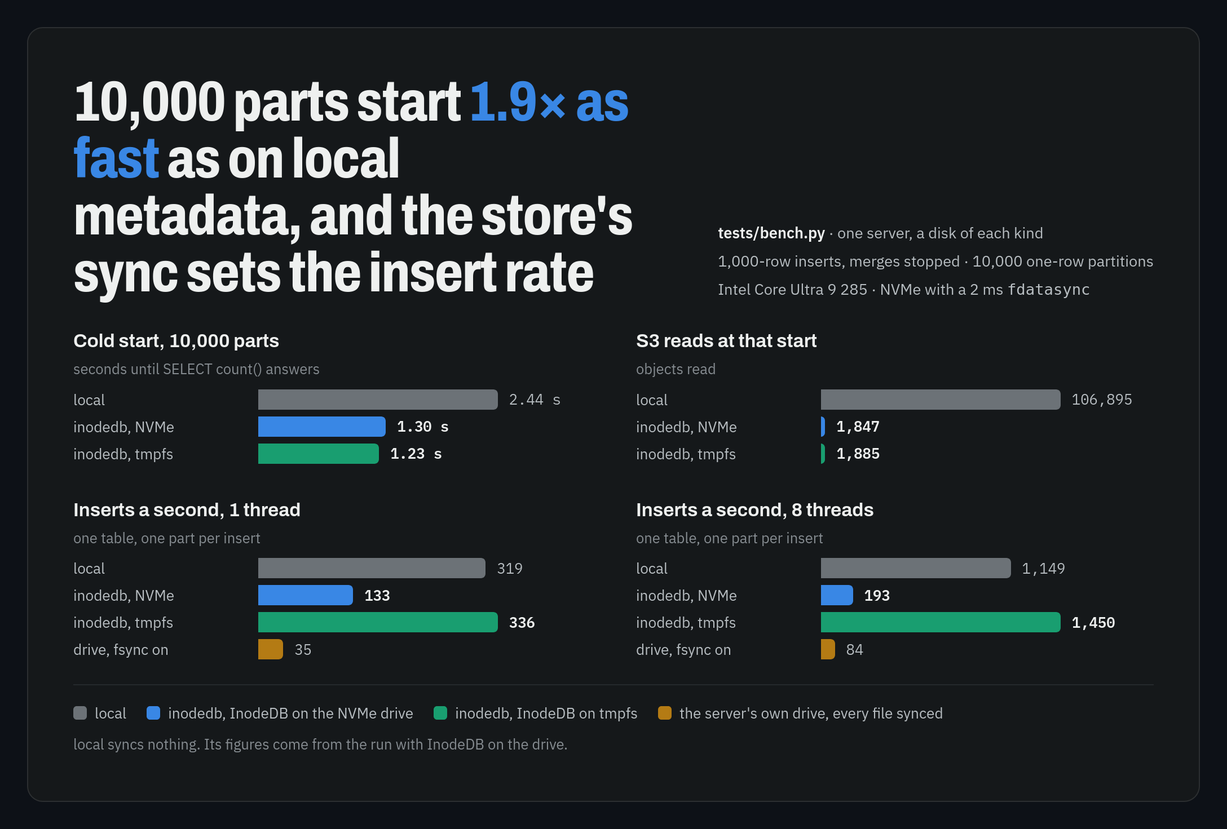
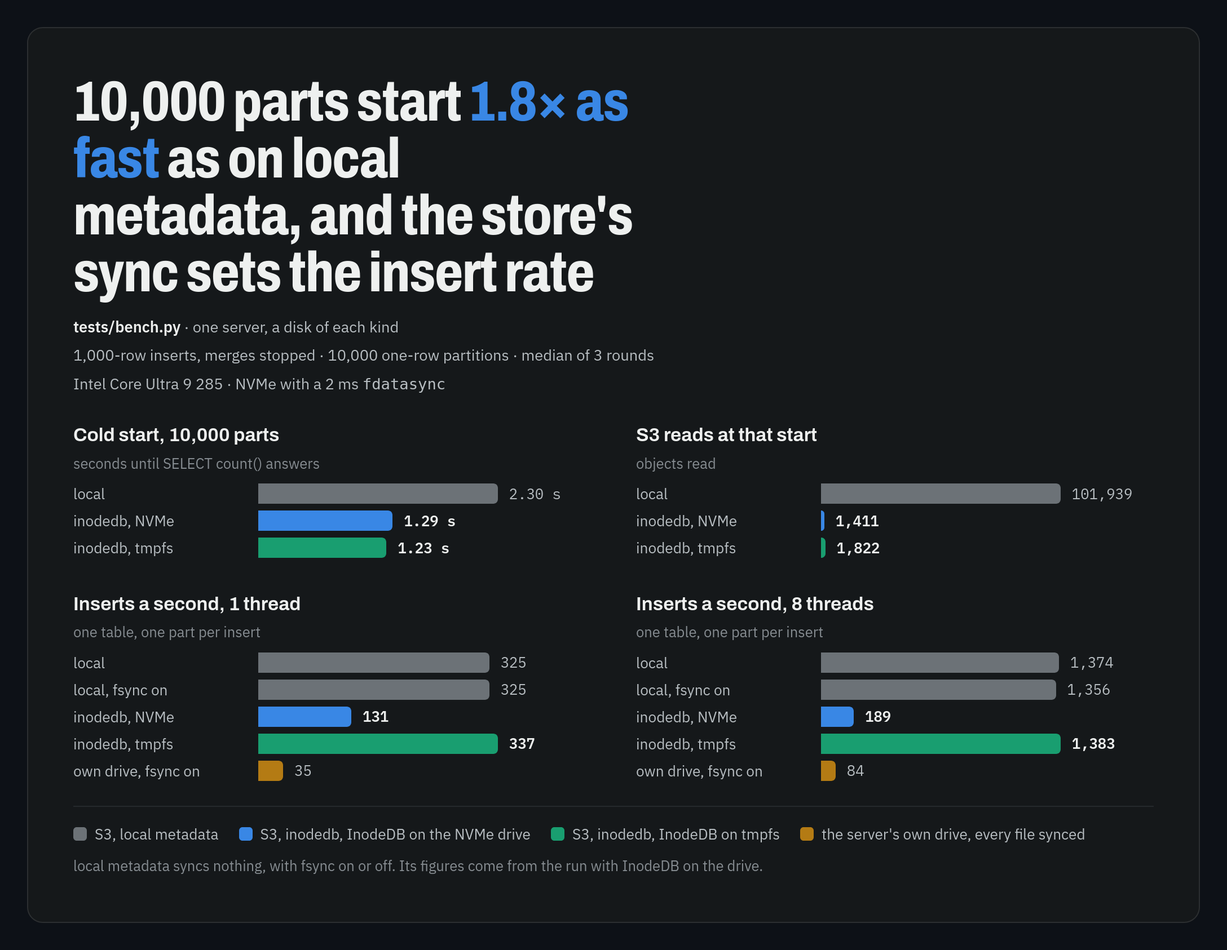
Show `local` metadata with fsync on, report benchmark medians, and count files in inline archives
The insert tables in the README, BENCHMARKS.md and the chart now give a row per configuration, `local` metadata with
`fsync_after_insert` and `fsync_part_directory` on among them. On an object-storage disk those settings sync nothing:
`local` takes 325 inserts a second with them on or off, where `inodedb` makes each insert durable at 131 with its
store on the NVMe drive and at 337 on tmpfs, and MergeTree on the server's own drive with both on takes 35.

`tests/bench.py` runs the inserts and the cold starts in 3 rounds, with the disks in a different order each round,
and reports medians. Whichever disk ran first ran slow: its cold start followed 30,000 parts' writes, so `local`'s
single sample varied from 2.44 s to 3.32 s across runs. The medians give 2.30 s against `inodedb`'s 1.29 s.

The ClickHouse fork moves to 424959278, which starts a `ReadBufferFromFileView`'s buffer at the file's first byte.
A `Packed` part whose `data.packed` is inline read its files from an in-memory buffer holding the whole archive, and
`CHECK TABLE` found each file as long as its end offset. `05394_vertical_merge_packed_part` failed this way in the
parity run that drew `ZSTD(3)` as its default codec.

Claude-Session: https://claude.ai/code/session_01TAw1MNTy3pftkJjeVmuJNn

diff --git a/docs/images/charts.html b/docs/images/charts.html
@@ -129,22 +129,22 @@ html.capture[data-theme="dark"] { --bg: #0d1117; }
 
   <div class="card hero" id="metadata">
     <div class="hero-head">
-      <h1>10,000 parts start <em>1.9× as fast</em> as on local metadata, and the store's sync sets the insert rate</h1>
+      <h1>10,000 parts start <em>1.8× as fast</em> as on local metadata, and the store's sync sets the insert rate</h1>
       <div class="hero-meta">
         <span><b>tests/bench.py</b> · one server, a disk of each kind</span>
-        <span>1,000-row inserts, merges stopped · 10,000 one-row partitions</span>
+        <span>1,000-row inserts, merges stopped · 10,000 one-row partitions · median of 3 rounds</span>
         <span>Intel Core Ultra 9 285 · NVMe with a 2 ms <code>fdatasync</code></span>
       </div>
     </div>
     <div class="meta-grid" id="metadata-chart" role="img"></div>
     <div class="foot">
       <div class="key">
-        <span><i class="sw" style="background:var(--local)"></i>local</span>
-        <span><i class="sw" style="background:var(--nvme)"></i>inodedb, InodeDB on the NVMe drive</span>
-        <span><i class="sw" style="background:var(--tmpfs)"></i>inodedb, InodeDB on tmpfs</span>
+        <span><i class="sw" style="background:var(--local)"></i>S3, local metadata</span>
+        <span><i class="sw" style="background:var(--nvme)"></i>S3, inodedb, InodeDB on the NVMe drive</span>
+        <span><i class="sw" style="background:var(--tmpfs)"></i>S3, inodedb, InodeDB on tmpfs</span>
         <span><i class="sw" style="background:var(--durable)"></i>the server's own drive, every file synced</span>
       </div>
-      <span>local syncs nothing. Its figures come from the run with InodeDB on the drive.</span>
+      <span>local metadata syncs nothing, with fsync on or off. Its figures come from the run with InodeDB on the drive.</span>
     </div>
   </div>
 
@@ -159,12 +159,12 @@ const D = {
     [4, 15, 45, 53, 126],
     [8, 18, 49, 58, 138],
   ],
-  // BENCHMARKS.md, metadata: local, inodedb on the drive, inodedb on tmpfs, and for inserts the drive with fsync on
+  // BENCHMARKS.md, metadata: each panel's bars, by the disks below
   metadata: [
-    ["Cold start, 10,000 parts", "seconds until SELECT count() answers", [2.44, 1.30, 1.23], v => v.toFixed(2) + " s"],
-    ["S3 reads at that start", "objects read", [106895, 1847, 1885], v => fmt(v)],
-    ["Inserts a second, 1 thread", "one table, one part per insert", [319, 133, 336, 35], v => fmt(v)],
-    ["Inserts a second, 8 threads", "one table, one part per insert", [1149, 193, 1450, 84], v => fmt(v)],
+    ["Cold start, 10,000 parts", "seconds until SELECT count() answers", {local: 2.30, nvme: 1.29, tmpfs: 1.23}, v => v.toFixed(2) + " s"],
+    ["S3 reads at that start", "objects read", {local: 101939, nvme: 1411, tmpfs: 1822}, v => fmt(v)],
+    ["Inserts a second, 1 thread", "one table, one part per insert", {local: 325, local_fsync: 325, nvme: 131, tmpfs: 337, durable: 35}, v => fmt(v)],
+    ["Inserts a second, 8 threads", "one table, one part per insert", {local: 1374, local_fsync: 1356, nvme: 189, tmpfs: 1383, durable: 84}, v => fmt(v)],
   ],
 };
 
@@ -205,20 +205,28 @@ const el = (tag, cls, text) => { const e = document.createElement(tag); if (cls)
 
 (function metadata() {
   const host = document.getElementById("metadata-chart");
-  const disks = [["local", "local"], ["nvme", "inodedb, NVMe"], ["tmpfs", "inodedb, tmpfs"], ["durable", "drive, fsync on"]];
+  // Each disk's color, label, and description for the screen-reader text, in the order the bars run.
+  const disks = {
+    local: ["local", "local", "local metadata"],
+    local_fsync: ["local", "local, fsync on", "local metadata with fsync on"],
+    nvme: ["nvme", "inodedb, NVMe", "inodedb with InodeDB on the NVMe drive"],
+    tmpfs: ["tmpfs", "inodedb, tmpfs", "inodedb with InodeDB on tmpfs"],
+    durable: ["durable", "own drive, fsync on", "the server's own drive with fsync on"],
+  };
   for (const [title, sub, values, show] of D.metadata) {
-    const panel = el("div", "panel"), bars = el("div", "bars"), max = Math.max(...values);
+    const panel = el("div", "panel"), bars = el("div", "bars"), max = Math.max(...Object.values(values));
     panel.append(el("h3", null, title), el("div", "sub", sub));
-    values.forEach((v, i) => {
-      const b = el("div", "b"), bar = el("span", "bar");
-      bar.style.width = (v / max) * 72 + "%"; bar.style.background = `var(--${disks[i][0]})`;
-      b.append(bar, el("span", i === 1 || i === 2 ? "v lead" : "v", show(v)));
-      bars.append(el("div", "name", disks[i][1]), b);
-    });
+    for (const [key, [color, name]] of Object.entries(disks)) {
+      if (!(key in values)) continue;
+      const v = values[key], b = el("div", "b"), bar = el("span", "bar");
+      bar.style.width = (v / max) * 72 + "%"; bar.style.background = `var(--${color})`;
+      b.append(bar, el("span", key === "nvme" || key === "tmpfs" ? "v lead" : "v", show(v)));
+      bars.append(el("div", "name", name), b);
+    }
     panel.append(bars); host.append(panel);
   }
-  host.setAttribute("aria-label", "local metadata, inodedb with InodeDB on the NVMe drive, inodedb with InodeDB on tmpfs, and for inserts the server's own drive with fsync on: " +
-    D.metadata.map(([t, , v, show]) => `${t} ${v.map(show).join(", ")}`).join("; ") + ".");
+  host.setAttribute("aria-label", D.metadata.map(([t, , values, show]) =>
+    `${t}: ` + Object.entries(disks).filter(([key]) => key in values).map(([key, [, , what]]) => `${what} ${show(values[key])}`).join(", ")).join("; ") + ".");
 })();
 </script>
 </body>

diff --git a/tests/bench.py b/tests/bench.py
@@ -2,18 +2,22 @@
 """Benchmarks `inodedb` metadata against `local` metadata on one server over s3proxy.
 
 Three disks take the same work: `local` metadata, `inodedb` metadata, and `inodedb` with inline files off. The
-inserts also run on the server's own drive with every file and directory synced (`default`, fsync on): what a durable
-insert costs there. `local` metadata on an object-storage disk makes no fsync, whatever MergeTree's fsync settings say.
+inserts run twice more with `fsync_after_insert` and `fsync_part_directory` on: on the `local` metadata disk, where
+they make no fsync, and on the server's own drive, where they sync every file and directory, which is what a durable
+insert costs there.
 
 - Inserts: small inserts one after another, then the same number from 8 threads, with merges stopped. Reports
   inserts per second, and object-storage writes, InodeDB commits and fsyncs per insert.
 - Cold start: a table of many parts on each disk in turn. Restarts the server with only that table attached and
   reports the seconds until the table answers, and object-storage and InodeDB reads during the load.
 
+The inserts and the cold starts run `--rounds` times, with the disks in a different order each round, and the table
+reports each measure's median. Writing the tables of many parts runs once.
+
 Each InodeDB commit waits for its store's sync. `--tmpfs` runs an InodeDB of its own on 127.0.0.1:7071 with its
 store in /dev/shm, which stands in for a drive whose syncs take microseconds.
 
-    python3 tests/bench.py [--inserts N] [--parts N] [--tmpfs]
+    python3 tests/bench.py [--inserts N] [--parts N] [--rounds N] [--tmpfs]
 
 Prints a Markdown table and writes .dev/bench/results.json (results-tmpfs.json with `--tmpfs`). Needs
 `scripts/dev-up` and a built server.
@@ -24,6 +28,7 @@ from __future__ import annotations
 import argparse
 import json
 import shutil
+import statistics
 import socket
 import subprocess
 import sys
@@ -37,9 +42,10 @@ sys.path.insert(0, str(Path(__file__).resolve().parent.parent))
 from bighouse import stack  # noqa: E402
 
 DISKS = ("local", "inodedb", "inodedb_blobs")
-# The inserts' extra row: MergeTree on the server's own drive, syncing every file and directory it writes.
-DURABLE = "default_fsync"
-DURABLE_SETTINGS = "storage_policy = 'default', fsync_after_insert = 1, fsync_part_directory = 1"
+# The inserts' extra rows: the `local` disk and the server's own drive, each with MergeTree's fsync settings on.
+FSYNC = "fsync_after_insert = 1, fsync_part_directory = 1"
+INSERTS_ONLY = {"local_fsync": f"storage_policy = 'local', {FSYNC}", "default_fsync": f"storage_policy = 'default', {FSYNC}"}
+NAMES = {"local_fsync": "`local`, fsync on", "default_fsync": "`default`, fsync on"}
 WRITES = ("DiskS3PutObject", "DiskS3CreateMultipartUpload", "DiskS3UploadPart")
 READS = ("DiskS3GetObject", "DiskS3HeadObject")
 INODEDB_READS = ("InodeDBStat", "InodeDBRead", "InodeDBList")
@@ -94,9 +100,9 @@ def events(server: stack.Server, names: tuple[str, ...]) -> int:
     return int(server.value(f"SELECT sum(value) FROM system.events WHERE event IN ({listed})") or 0)
 
 
-def bench_inserts(server: stack.Server, disk: str, count: int) -> dict[str, float]:
-    table = f"bench.inserts_{disk}"
-    placement = DURABLE_SETTINGS if disk == DURABLE else f"storage_policy = '{disk}'"
+def bench_inserts(server: stack.Server, disk: str, count: int, round_: int) -> dict[str, float]:
+    table = f"bench.inserts_{disk}_{round_}"
+    placement = INSERTS_ONLY.get(disk, f"storage_policy = '{disk}'")
     server.query(f"CREATE TABLE {table} (k UInt64, v String, t DateTime) ENGINE = MergeTree ORDER BY k "
                  f"SETTINGS {placement}, parts_to_throw_insert = 100000, parts_to_delay_insert = 100000")
     server.query(f"SYSTEM STOP MERGES {table}")
@@ -161,10 +167,21 @@ def bench_cold_start(server: stack.Server, disk: str, parts: int) -> dict[str, f
     return result
 
 
+def rotated(disks: tuple[str, ...], round_: int) -> tuple[str, ...]:
+    """`disks`, starting from the one `round_` places first."""
+    first = round_ % len(disks)
+    return disks[first:] + disks[:first]
+
+
+def medians(samples: list[dict[str, float]]) -> dict[str, float]:
+    return {key: statistics.median(sample[key] for sample in samples) for key in samples[0]}
+
+
 def main() -> int:
     parser = argparse.ArgumentParser(description=__doc__, formatter_class=argparse.RawDescriptionHelpFormatter)
     parser.add_argument("--inserts", type=int, default=200)
     parser.add_argument("--parts", type=int, default=10_000)
+    parser.add_argument("--rounds", type=int, default=3, help="rounds of the inserts and of the cold starts")
     parser.add_argument("--tmpfs", action="store_true", help="run InodeDB with its store in /dev/shm")
     args = parser.parse_args()
 
@@ -172,20 +189,30 @@ def main() -> int:
     inodedb = start_tmpfs_inodedb(run) if args.tmpfs else None
     server = make_server(run)
     server.start()
-    results: dict[str, dict[str, float]] = {disk: {} for disk in (*DISKS, DURABLE)}
+    inserts = (*DISKS, *INSERTS_ONLY)
+    results: dict[str, dict[str, float]] = {disk: {} for disk in inserts}
+    samples: dict[str, list[dict[str, float]]] = {disk: [] for disk in inserts}
     try:
         server.query("CREATE DATABASE bench")
-        for disk in (*DISKS, DURABLE):
-            results[disk] |= bench_inserts(server, disk, args.inserts)
-            print(f"{disk}: inserts {results[disk]}", flush=True)
+        for round_ in range(args.rounds):
+            for disk in rotated(inserts, round_):
+                samples[disk].append(bench_inserts(server, disk, args.inserts, round_))
+                print(f"{disk}: inserts, round {round_ + 1}: {samples[disk][-1]}", flush=True)
         for disk in DISKS:
             started = time.monotonic()
             fill_parts(server, disk, args.parts)
             results[disk]["fill_parts_s"] = time.monotonic() - started
             print(f"{disk}: {args.parts} parts in {results[disk]['fill_parts_s']:.1f} s", flush=True)
+        # Each disk's first cold start follows the writes, so each round puts a different disk first.
+        cold_starts: dict[str, list[dict[str, float]]] = {disk: [] for disk in DISKS}
+        for round_ in range(args.rounds):
+            for disk in rotated(DISKS, round_):
+                cold_starts[disk].append(bench_cold_start(server, disk, args.parts))
+                print(f"{disk}: cold start, round {round_ + 1}: {cold_starts[disk][-1]}", flush=True)
+        for disk in inserts:
+            results[disk] |= medians(samples[disk])
         for disk in DISKS:
-            results[disk] |= bench_cold_start(server, disk, args.parts)
-            print(f"{disk}: cold start {results[disk]}", flush=True)
+            results[disk] |= medians(cold_starts[disk])
     finally:
         server.stop()
         server.wipe()
@@ -196,15 +223,16 @@ def main() -> int:
 
     out = stack.DEV / ("bench/results-tmpfs.json" if args.tmpfs else "bench/results.json")
     out.parent.mkdir(parents=True, exist_ok=True)
-    out.write_text(json.dumps({"inserts": args.inserts, "parts": args.parts, "results": results}, indent=1))
+    out.write_text(json.dumps({"inserts": args.inserts, "parts": args.parts, "rounds": args.rounds, "results": results,
+                               "samples": samples, "cold_starts": cold_starts}, indent=1))
 
     print(f"\n| Metadata | Inserts/s, 1 thread | Inserts/s, 8 threads | S3 writes per insert | InodeDB commits per insert "
           f"| fsyncs per insert | {args.parts:,} parts written (s) | Cold start (s) | S3 reads at load | InodeDB reads at load |")
     print("| --- | --- | --- | --- | --- | --- | --- | --- | --- | --- |")
-    for disk in (*DISKS, DURABLE):
+    for disk in (*DISKS, *INSERTS_ONLY):
         r = results[disk]
-        name = "`default`, fsync on" if disk == DURABLE else f"`{disk}`"
-        rest = (f"{r['fill_parts_s']:.1f} | {r['cold_start_s']:.2f} | {r['reads_during_load']:,} | {r['inodedb_reads_during_load']:,}"
+        name = NAMES.get(disk, f"`{disk}`")
+        rest = (f"{r['fill_parts_s']:.1f} | {r['cold_start_s']:.2f} | {r['reads_during_load']:,.0f} | {r['inodedb_reads_during_load']:,.0f}"
                 if disk in DISKS else "| | |")
         print(f"| {name} | {r['sequential_inserts_per_s']:.0f} | {r['parallel_inserts_per_s']:.0f} | {r['writes_per_insert']:.1f} "
               f"| {r['commits_per_insert']:.1f} | {r['fsyncs_per_insert']:.1f} | {rest} |")

diff --git a/PLAN.md b/PLAN.md
@@ -46,6 +46,7 @@ Each table has one writer. The demo runs on one machine with s3proxy standing in
 | `src/Storages/MergeTree/DataPartStorageOnDiskBase.cpp` | `rename` sets the directory's modification time and moves it in one disk transaction when the part has none open. | One InodeDB commit per rename, not two. |
 | `src/Storages/MergeTree/IDataPartStorage.h`, `src/Storages/MergeTree/DataPartStorageOnDiskFull.{h,cpp}` | `commitsNewPartWithRename`, true for a full part's storage on an `inodedb` disk. | Asks `MergeTreeSink` to commit a part's files with its rename. |
 | `src/Storages/MergeTree/MergeTreeSink.cpp` | `finishDelayedChunk` leaves the part's transaction open when its storage asks, so `commitPart` commits the files with the rename, and undoes the transaction of a part that is not added. | One InodeDB commit per insert, not two. |
+| `src/IO/ReadBufferFromFileView.{h,cpp}` | `resizeWorkingBuffer` starts the buffer at the file's first byte. | A file read from an inline `data.packed` counts its own bytes, which `CHECK TABLE` compares with `checksums.txt`. |
 | `src/Backups/BackupEntryWithChecksumCalculation.cpp` | A non-empty file without blobs takes its checksum from its bytes. | Backups of inline files. |
 | `src/Common/ProfileEvents.cpp` | `InodeDB*` events. | Call counts in `system.events`. |
 | `src/Disks/tests/gtest_metadata_local_disk.cpp` | Runs every case against `local` and `inodedb`, plus `inodedb`-only inline, spill and replica cases. | Unit parity. |
@@ -160,6 +161,7 @@ Status ledger:
 | Complete | Test | `database_disk` on the `inodedb` disk | `tests/parity.py --remote-database-disk` exits 0 (`build/test_parity_dbdisk.log`). With database metadata on an `inodedb` disk, all 17,275 tests ran: 15,224 OK, 1,095 failed, 956 skipped. The `local` pass, with `plain_rewritable` database metadata, ended at 12,376 tests when `clickhouse-test` received `SIGTERM`; the recheck ran all 377 `inodedb` failures on it, and 372 failed there too. The other five are the tests that read local metadata files. |
 | Complete | Decision | Zero-copy replication | Zero-copy ships each part's local metadata files to the other replica, and the receiver writes them to its local filesystem (`Fetcher::fetchSelectedPart`), so upstream turns it off for `keeper` and `memory` metadata. `DiskObjectStorage::supportZeroCopyReplication` turns it off for `inodedb` too, and replicated tables fetch whole parts; BigHouse's replicas share the writer's tree instead. With it on, the sender failed with `Remote metadata 'checksums.txt' is not exists` and the fetch retried forever; now `tests/features.py replicated` passes with `allow_remote_fs_zero_copy_replication = 1` on both types, and both disks remove every blob afterward. |
 | Complete | Decision | Tests that read local metadata files | `02378_part_log_profile_events` sums `FileOpen`, which counts local file opens; `03100_lwu_59_freeze_detach_keep_invalidated_columns`, `04429_drop_index_sibling_suffix_collision`, `04538_packed_clone_hardlinks_data_packed` and `04758_part_minmax_block_columns_files_prefix` run `find`, `test -e`, `test -f` or `stat` on paths from `system.parts`, `system.tables` and `FREEZE`. The last four carry upstream's `no-object-storage` tag. `parity.py` (`rewrite_for_inodedb`) points those paths into an `idb mount` of the disk's tree and swaps `FileOpen` for `InodeDBCommit`; rewritten, all five pass against the original references: the clone shares `data.packed`'s inode, frozen and detached copies keep `invalidated_system_columns.txt`, the minmax files form a prefix, `DROP INDEX` keeps the survivor's files, and each mutation commits. |
+| Complete | Decision | Files in an inline archive | A `Packed` part whose `data.packed` fits inline reads from one in-memory buffer holding the whole archive, and `ReadBufferFromFileView` counted from the archive's first byte, so `CHECK TABLE` found each file as long as its end offset: "Unexpected size of file count.txt (3 vs 3949)". The view now starts its buffer at the file. `05394_vertical_merge_packed_part` failed this way in the parity run whose `install.sh` drew `ZSTD(3)` as the default codec, which shrank its merged archive to 3,949 bytes; gtest `ReadBufferFromFileView.MemoryArchiveCountsTheFileAlone` counted 300 bytes for a 200-byte file without the fix. |
 | Complete | Decision | `02725_memory-for-merges` is flaky on both types | It requires the summed peak memory of a table's merges to stay under 200 MiB. Six runs per disk of its workload ran two merges (one a single-part rewrite) three times of six on `local` and on `inodedb`, and two merges always pass the limit (204 to 226 MiB); one merge peaked at 116 to 135 MiB on both. The latest parity run failed it on both. |
 | Complete | Gate | No failure unique to `inodedb` | `tests/parity.py` reports 0 regressions and 5 tests that read local metadata files (`.dev/parity/diff.json`). |
 
@@ -217,8 +219,8 @@ Status ledger:
 | Complete | Work | 4A: Cached reads | `InodeDB/InodeDBMetadataCache.{h,cpp}`: reading a file lists its directory with values, so one `List` serves a part's files. A commit invalidates the paths and subtrees it touched and the other names of inodes it changed; a read keeps its answer only if no commit landed since it began. Replicas forget listings on refresh. Link counts read uncached. |
 | Complete | Work | 4B: One commit per part | `MergeTreeDataWriter` writes a part inside one disk transaction. On an `inodedb` disk `MergeTreeSink` leaves it open (`commitsNewPartWithRename`), the rename and the directory's modification time join it (`DataPartStorageOnDiskBase::rename`), and `MergeTreeData::Transaction::commit` commits all of it as one batch. A part that is not added, because it was deduplicated, covered or failed, undoes its transaction, which removes its blobs. `tests/features.py`: an insert makes one InodeDB commit, and a deduplicated insert leaves no blob; built without the undo, both that check and the final blob check fail. `tests/bench.py`: 1.0 InodeDB commits per insert, against 2.0 with a commit for the files and one for the rename. On the NVMe drive one thread went from 82 to 133 inserts a second, 8 threads from 145 to 193, and 10,000 parts from 87.8 s to 50.3 s. On tmpfs one thread went from 310 to 336, 8 threads from 2,199 to 1,450, and 10,000 parts from 4.6 s to 5.7 s: `MergeTreeSink::commitPart` commits under the table's parts lock, which now holds the part's whole batch, not just the rename. |
 | Incomplete | Work | 4C: Orphan sweep | Blobs uploaded before a crash and never committed stay in S3, a part waiting for the table's parts lock among them (4B); `local` metadata leaves those of parts still being written, and has no sweep either. A safe sweep lists the disk's tree through a snapshot at version V and the free queue with `ListFreed` until `freed_through` reaches V, then deletes the blobs under the disk's prefix, uploaded before the writer's fence, that neither names. Missing: the sweep, and a crash test that compares S3's blobs with that set exactly. |
-| Complete | Work | 4D: Inline small files | Files up to `inodedb_inline_file_max_bytes` (16 KiB) keep their bytes in the record. `writeInlineDataToFile` rewrites the file as `MetadataStorageFromMemory` does; an append moves inline bytes to a blob first; truncation cuts inline bytes; backups checksum inline files by their bytes. Gtest `TestInlineRewriteAppendTruncate`; `tests/features.py`, `tests/crash.py 100` and the parity run pass with inline files on. `tests/bench.py`: a 1,000-row part uploads no blob, and 10,000 parts load in 1.2 s against `local`'s 2.3 s. |
-| Complete | Test | 4E: Benchmarks | `BENCHMARKS.md`. With InodeDB's store on this machine's NVMe drive (2 ms `fdatasync`), `inodedb` takes 133 durable inserts/s on one thread against `local`'s 319, which syncs nothing even with `fsync_after_insert` and `fsync_part_directory` on, and against 35 for MergeTree on the drive with both on; 10,000 parts take 50.3 s against 5.6 s. With the store on tmpfs, 336 against 319 and 5.7 s against 6.7 s. Cold start: 1.3 s against 2.4 s. |
+| Complete | Work | 4D: Inline small files | Files up to `inodedb_inline_file_max_bytes` (16 KiB) keep their bytes in the record. `writeInlineDataToFile` rewrites the file as `MetadataStorageFromMemory` does; an append moves inline bytes to a blob first; truncation cuts inline bytes; backups checksum inline files by their bytes. Gtest `TestInlineRewriteAppendTruncate`; `tests/features.py`, `tests/crash.py 100` and the parity run pass with inline files on. `tests/bench.py`: a 1,000-row part uploads no blob, and 10,000 parts load in 1.3 s against `local`'s 2.3 s. |
+| Complete | Test | 4E: Benchmarks | `BENCHMARKS.md`, medians of 3 rounds with the disks in a rotating order. With InodeDB's store on this machine's NVMe drive (2 ms `fdatasync`), `inodedb` takes 131 durable inserts/s on one thread against `local`'s 325, which syncs nothing with `fsync_after_insert` and `fsync_part_directory` on or off (325 with them on), and against 35 for MergeTree on the drive with both on; 10,000 parts take 50.4 s against 7.0 s. With the store on tmpfs, `inodedb` matches `local`: 337 and 1,383 inserts/s on 1 and 8 threads against 325 and 1,386, and 5.6 s against 7.4 s for 10,000 parts. Cold start: 1.29 s against 2.30 s. |
 | Complete | Gate | Benchmarks recorded, parity intact | `BENCHMARKS.md`; the parity run on the same build, with inline files on, reports no regressions (Phase 2). |
 
 ## Phase 5: Read Replicas

diff --git a/README.md b/README.md
@@ -2,7 +2,7 @@
 
 BigHouse runs ClickHouse like BigQuery. One writer ingests into `MergeTree` tables on S3, and each query runs on a fleet of ClickHouse servers that read those tables as parallel replicas, answer, and make way for fresh ones. It rests on `inodedb`, a new `metadata_type` for ClickHouse's object-storage disks that keeps the disk's file tree in [InodeDB](https://github.com/danthegoodman1/inodedb), a transactional tree of inodes, and its blobs in S3. Any number of servers read the disk while its writer changes it, and a fleet needs nothing from the writer, so queries keep answering while it is down. The disk's code lives on the `bighouse` branch of a [fork of ClickHouse 26.10](https://github.com/danthegoodman1/ClickHouse/tree/bighouse), which this repo pins as its `ClickHouse/` submodule, and a Python service with no dependencies runs the fleets.
 
-The disk matches an S3 disk with `local` metadata feature for feature. Of ClickHouse's 17,275 stateless tests, the five that fail only on `inodedb` read local metadata files, and pass once pointed at InodeDB's tree. Small files live in InodeDB, so 10,000 parts load in 1.30 s from 1,847 S3 reads, where `local` takes 2.44 s and 106,895 reads. A query that turns eight blank servers into the tenant's replicas and runs on them answers in 138 ms. [BENCHMARKS.md](BENCHMARKS.md) has every result and the commands to reproduce them.
+The disk matches an S3 disk with `local` metadata feature for feature. Of ClickHouse's 17,275 stateless tests, the five that fail only on `inodedb` read local metadata files, and pass once pointed at InodeDB's tree. Small files live in InodeDB, so 10,000 parts load in 1.29 s from 1,411 S3 reads, where `local` takes 2.30 s and 101,939 reads. A query that turns eight blank servers into the tenant's replicas and runs on them answers in 138 ms. [BENCHMARKS.md](BENCHMARKS.md) has every result and the commands to reproduce them.
 
 <picture>
   <source media="(prefers-color-scheme: dark)" srcset="docs/images/fleet-dark.png">
@@ -48,27 +48,35 @@ A query through the API, `SELECT count(), sum(duration_ms) FROM demo.events` ove
 
 Assigning writes each server's tenant config and reloads it, which starts the disk and its InodeDB lease. Attaching reads the databases' definitions from InodeDB and loads their parts, on the first server and then on the rest at once. The rest of each total, 12 to 14 ms, mints the query's key and takes the servers from the pool. Every server shares the one machine's cores, so here a larger fleet adds coordination and no CPU; on separate hosts, each server brings its own.
 
-The disk against `local` metadata, one of each on the same server and s3proxy:
+The disk against `local` metadata, one of each on the same server and s3proxy, median of 3 rounds:
 
 <picture>
   <source media="(prefers-color-scheme: dark)" srcset="docs/images/metadata-dark.png">
-  <img src="docs/images/metadata-light.png" alt="local metadata, inodedb with InodeDB on the NVMe drive, and inodedb with InodeDB on tmpfs. Cold start of 10,000 parts: 2.44 s, 1.30 s and 1.23 s. S3 reads at that start: 106,895, 1,847 and 1,885. Inserts a second on one thread: 319, 133 and 336, and 35 on the server's own drive with every file synced. Inserts a second on eight threads: 1,149, 193 and 1,450, and 84 on the drive with every file synced.">
+  <img src="docs/images/metadata-light.png" alt="Cold start of 10,000 parts: 2.30 s on local metadata, 1.29 s on inodedb with InodeDB on the NVMe drive, 1.23 s with InodeDB on tmpfs. S3 reads at that start: 101,939, 1,411 and 1,822. Inserts a second on one thread: 325 on local metadata, 325 with fsync on, 131 on inodedb with InodeDB on the drive, 337 with InodeDB on tmpfs, and 35 on the server's own drive with fsync on. On eight threads: 1,374, 1,356, 189, 1,383 and 84.">
 </picture>
 
-| | `local` | `inodedb`, store on NVMe | `inodedb`, store on tmpfs | The drive, fsync on |
-|---|--:|--:|--:|--:|
-| Inserts a second, 1 thread | 319 | 133 | 336 | 35 |
-| Inserts a second, 8 threads | 1,149 | 193 | 1,450 | 84 |
-| 10,000 parts written | 5.6 s | 50.3 s | 5.7 s | |
-| Cold start, 10,000 parts | 2.44 s | 1.30 s | 1.23 s | |
-| S3 reads at that start | 106,895 | 1,847 | 1,885 | |
+Inserts a second into one table, 1,000 rows and one part per insert. Fsync on sets `fsync_after_insert` and `fsync_part_directory`.
 
-An `inodedb` insert is durable when it returns: it makes one InodeDB commit, which waits for the store's sync. `local` metadata syncs nothing, and on an object-storage disk `fsync_after_insert` and `fsync_part_directory` leave it so. The last column is MergeTree on the server's own drive with both on: 14 fsyncs per insert. One table commits its new parts one at a time, so on a drive whose sync takes 2 ms a table takes about 190 inserts a second however many threads insert. With syncs that take microseconds, as on datacenter NVMe with power-loss protection, `inodedb` passes `local` on one thread and on eight. tmpfs stands in for such a drive here.
+| Inserts into | Each insert syncs | 1 thread | 8 threads |
+|---|---|--:|--:|
+| S3, `local` metadata | nothing | 325 | 1,374 |
+| S3, `local` metadata, fsync on | nothing | 325 | 1,356 |
+| S3, `inodedb`, InodeDB on the NVMe drive | one InodeDB commit | 131 | 189 |
+| S3, `inodedb`, InodeDB on tmpfs | one InodeDB commit | 337 | 1,383 |
+| The server's own drive, fsync on | 14 files and directories | 35 | 84 |
+
+An `inodedb` insert is durable when it returns: it makes one InodeDB commit, which waits for the store's sync. `local` metadata writes its files without syncing them, and on an object-storage disk the fsync settings sync nothing, so its two rows make the same calls. A durable insert without InodeDB means MergeTree on the server's own drive with both settings on, which syncs 14 files and directories per insert. One table commits its new parts one at a time, so on a drive whose sync takes 2 ms a table takes about 190 inserts a second however many threads insert. With syncs that take microseconds, as on datacenter NVMe with power-loss protection, `inodedb` matches `local`. tmpfs stands in for such a drive here.
+
+| | `local` | `inodedb`, InodeDB on NVMe | `inodedb`, InodeDB on tmpfs |
+|---|--:|--:|--:|
+| 10,000 parts written | 7.0 s | 50.4 s | 5.6 s |
+| Cold start, 10,000 parts | 2.30 s | 1.29 s | 1.23 s |
+| S3 reads at that start | 101,939 | 1,411 | 1,822 |
 
 ### Trade-offs
 
-- **Insert rate on slow syncs.** On this drive one table takes 133 durable inserts a second on one thread, against `local`'s 319 unsynced ones, and 10,000 parts take 50 s against 5.6 s. Larger inserts, or `async_insert`, write fewer parts.
-- **One table's inserts commit in turn.** Each part commits under the table's parts lock, which orders a table's new parts. With fast syncs, the part's batch sets the pace: on tmpfs, 8 threads insert 1,450 times a second against 336 on one.
+- **Insert rate on slow syncs.** On this drive one table takes 131 durable inserts a second on one thread, against `local`'s 325 unsynced ones, and 10,000 parts take 50 s against 7.0 s. Larger inserts, or `async_insert`, write fewer parts.
+- **One table's inserts commit in turn.** Each part commits under the table's parts lock, which orders a table's new parts. With fast syncs, the part's batch sets the pace: on tmpfs, 8 threads insert 1,383 times a second against 337 on one.
 - **One writer per disk.** Every write goes through one ClickHouse server, and the writer that starts last owns the disk.
 - **One query per fleet server.** A config reload can add a disk but cannot remove one or change its key, so each server serves one query and is then replaced. Back to back on 8 slots, fleets of 4 average 276 ms a query against 126 ms with the pool settled, because each waits for servers still booting.
 - **Schema changes reach the next fleet.** Each fleet reads the schema as it attaches. A long-lived replica keeps the schema it attached with.

diff --git a/BENCHMARKS.md b/BENCHMARKS.md
@@ -29,11 +29,13 @@ Back to back, fleets of 4 on 8 slots took 276 ms a query, since each waits for s
 
 ## Metadata
 
-`tests/bench.py` gives one server three disks over the same s3proxy and runs the same work on each: `local` metadata, `inodedb` metadata, and `inodedb` with inline files off (`inodedb_blobs`). The inserts also run on the server's own drive with `fsync_after_insert` and `fsync_part_directory` on (`default`, fsync on), which is what a durable insert costs there.
+`tests/bench.py` gives one server three disks over the same s3proxy and runs the same work on each: `local` metadata, `inodedb` metadata, and `inodedb` with inline files off (`inodedb_blobs`). The inserts run twice more with `fsync_after_insert` and `fsync_part_directory` on: on the `local` disk (`local`, fsync on), and on the server's own drive (`default`, fsync on), which is what a durable insert costs there.
 
 - **Inserts.** 200 inserts of 1,000 rows one after another, then 200 more from 8 threads, into a table with merges stopped. Inserts are synchronous (`async_insert = 0`), so each writes its own part.
 - **10,000 parts.** 16 inserts at once write a table of 10,000 one-row partitions.
 - **Cold start.** The server restarts with only that table attached; the time runs until `SELECT count()` answers.
+
+The inserts and the cold starts run 3 rounds, with the disks in a different order each round, and the tables give medians. Whichever disk runs first runs slow: the first cold start follows 30,000 parts' writes, and in round 1 `local`'s took 2.86 s against its median of 2.30 s.
 
 ### InodeDB on the NVMe drive
 
@@ -41,9 +43,10 @@ Back to back, fleets of 4 on 8 slots took 276 ms a query, since each waits for s
 
 | Metadata | Inserts/s, 1 thread | Inserts/s, 8 threads | S3 writes per insert | InodeDB commits per insert | fsyncs per insert | 10,000 parts written (s) | Cold start (s) | S3 reads at load | InodeDB reads at load |
 | --- | --- | --- | --- | --- | --- | --- | --- | --- | --- |
-| `local` | 319 | 1149 | 11.0 | 0.0 | 0.0 | 5.6 | 2.44 | 106,895 | 1,620 |
-| `inodedb` | 133 | 193 | 0.0 | 1.0 | 0.0 | 50.3 | 1.30 | 1,847 | 20,513 |
-| `inodedb_blobs` | 117 | 187 | 11.0 | 1.0 | 0.0 | 52.1 | 2.58 | 102,226 | 20,522 |
+| `local` | 325 | 1374 | 11.0 | 0.0 | 0.0 | 7.0 | 2.30 | 101,939 | 395 |
+| `inodedb` | 131 | 189 | 0.0 | 1.0 | 0.0 | 50.4 | 1.29 | 1,411 | 20,283 |
+| `inodedb_blobs` | 117 | 183 | 11.0 | 1.0 | 0.0 | 57.1 | 2.62 | 101,826 | 20,394 |
+| `local`, fsync on | 325 | 1356 | 11.0 | 0.0 | 0.0 | | | | |
 | `default`, fsync on | 35 | 84 | 0.0 | 0.0 | 14.0 | | | | |
 
 ### InodeDB on tmpfs
@@ -52,17 +55,18 @@ Back to back, fleets of 4 on 8 slots took 276 ms a query, since each waits for s
 
 | Metadata | Inserts/s, 1 thread | Inserts/s, 8 threads | S3 writes per insert | InodeDB commits per insert | fsyncs per insert | 10,000 parts written (s) | Cold start (s) | S3 reads at load | InodeDB reads at load |
 | --- | --- | --- | --- | --- | --- | --- | --- | --- | --- |
-| `local` | 319 | 1189 | 11.0 | 0.0 | 0.0 | 6.7 | 2.34 | 107,142 | 1,624 |
-| `inodedb` | 336 | 1450 | 0.0 | 1.0 | 0.0 | 5.7 | 1.23 | 1,885 | 20,504 |
-| `inodedb_blobs` | 263 | 1368 | 11.0 | 1.0 | 0.0 | 8.1 | 2.55 | 101,758 | 20,512 |
-| `default`, fsync on | 35 | 83 | 0.0 | 0.0 | 14.0 | | | | |
+| `local` | 325 | 1386 | 11.0 | 0.0 | 0.0 | 7.4 | 2.26 | 102,015 | 388 |
+| `inodedb` | 337 | 1383 | 0.0 | 1.0 | 0.0 | 5.6 | 1.23 | 1,822 | 20,366 |
+| `inodedb_blobs` | 270 | 1390 | 11.0 | 1.0 | 0.0 | 7.7 | 2.59 | 102,169 | 20,409 |
+| `local`, fsync on | 317 | 1410 | 11.0 | 0.0 | 0.0 | | | | |
+| `default`, fsync on | 35 | 84 | 0.0 | 0.0 | 14.0 | | | | |
 
 ### Reading the numbers
 
 - **An insert makes one InodeDB commit.** It holds the part's directory and files, its modification time, and its rename to its final name: `MergeTreeSink` leaves the part's disk transaction open, and the rename joins it.
 - **The commit waits for the store's sync.** On this drive that costs 2 ms. InodeDB groups concurrent commits into one sync: its own benchmark here commits 456 batches a second from one client, 3,499 from 16 and 9,041 from 128 (`cargo run --release -p inodedb-tests --example commits -- 3 sqlite`, store on the drive).
-- **`local` metadata makes no insert durable.** It writes local files and syncs none of them, and on an object-storage disk `fsync_after_insert` and `fsync_part_directory` change nothing: with both on, it made no fsync. MergeTree on this drive with both on makes 14 fsyncs per insert and takes 35 inserts a second, where `inodedb` makes each insert durable at 133.
-- **One table commits one part at a time.** `MergeTreeSink::commitPart` renames each new part under the table's parts lock, and the part's commit goes with the rename, so one table's commits run in sequence. That caps one table near 190 inserts a second on this drive. With syncs that cost microseconds, the part's batch itself sets the pace: `inodedb` passes `local` on one thread and on 8, and writes 10,000 parts in 5.7 s against 6.7 s.
-- **Inline files make cold starts faster.** Loading a part reads its small files, which `inodedb` keeps inline: 10,000 parts load from 20,513 InodeDB reads and 1,847 S3 reads in 1.3 s, where `local` makes 106,895 S3 reads in 2.4 s. With inline files off, the load reads both and takes 2.6 s.
+- **`local` metadata makes no insert durable.** It writes local files and syncs none of them, and on an object-storage disk `fsync_after_insert` and `fsync_part_directory` change nothing: with both on, it makes no fsync and the same S3 writes. MergeTree on this drive with both on makes 14 fsyncs per insert and takes 35 inserts a second, where `inodedb` makes each insert durable at 131.
+- **One table commits one part at a time.** `MergeTreeSink::commitPart` renames each new part under the table's parts lock, and the part's commit goes with the rename, so one table's commits run in sequence. That caps one table near 190 inserts a second on this drive. With syncs that cost microseconds, the part's batch itself sets the pace: `inodedb` matches `local`, at 337 and 1,383 inserts a second against 325 and 1,386, and writes 10,000 parts in 5.6 s against 7.4 s.
+- **Inline files make cold starts faster.** Loading a part reads its small files, which `inodedb` keeps inline: 10,000 parts load from 20,283 InodeDB reads and 1,411 S3 reads in 1.3 s, where `local` makes 101,939 S3 reads in 2.3 s. With inline files off, the load reads both and takes 2.6 s.
 - **Small parts upload nothing.** Every file of a 1,000-row part fits within `inodedb_inline_file_max_bytes` (16 KiB), so `inodedb` writes no S3 objects for it.
 - The `local` rows' InodeDB reads come from the server's two other disks, which start with it.
